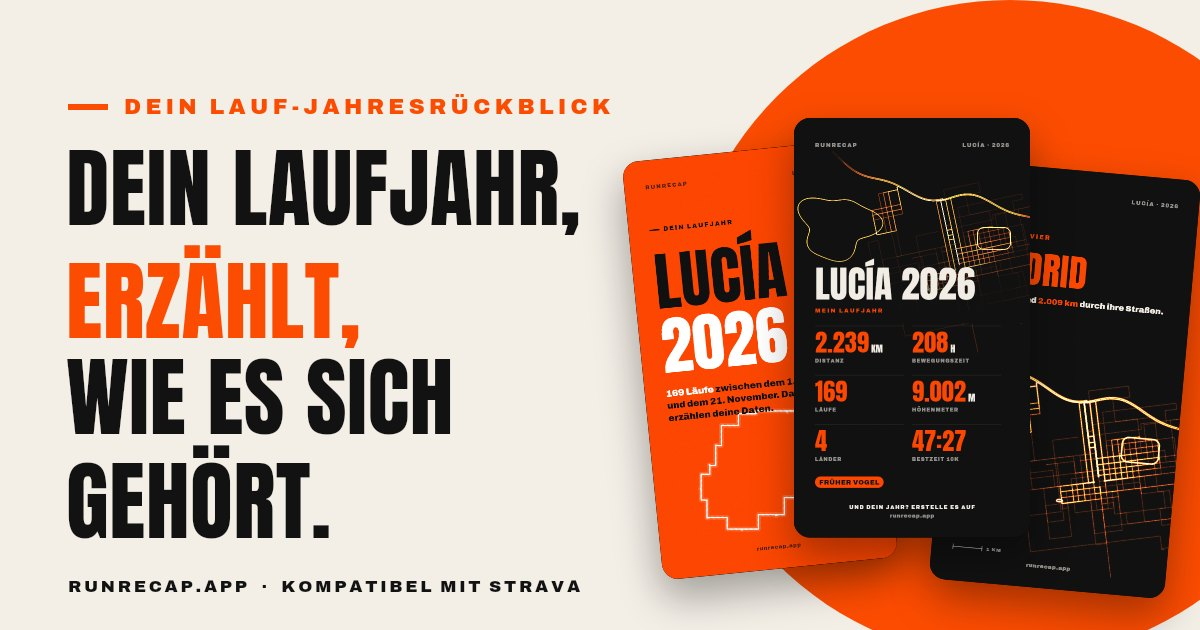
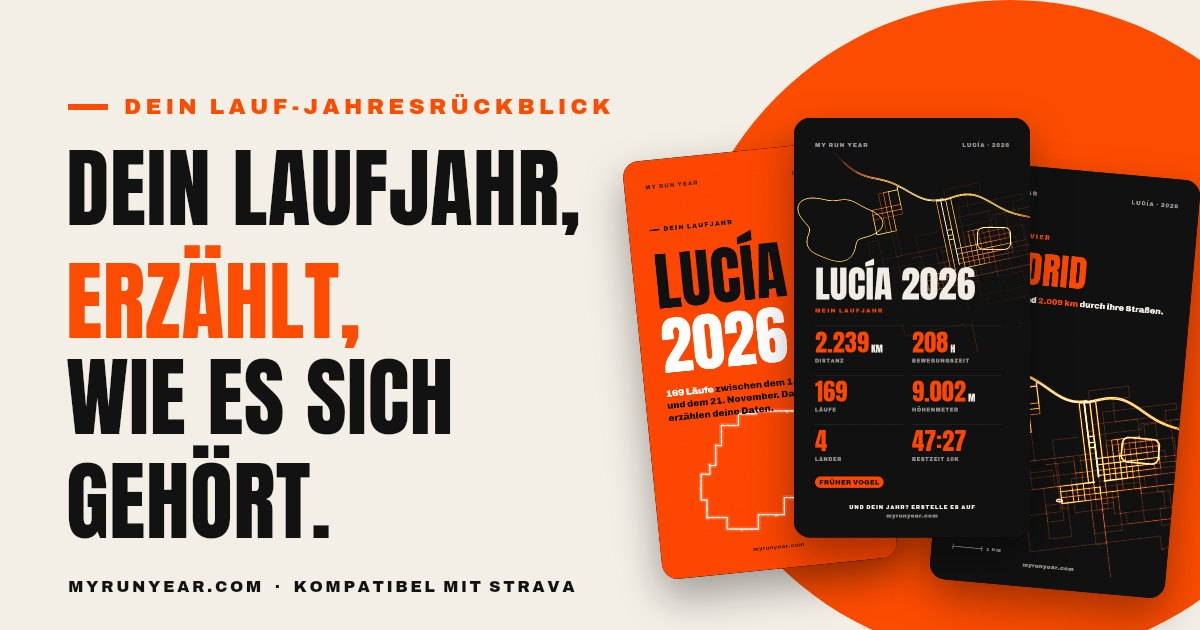
Nueva marca: My Run Year (myrunyear.com)
Nombre, dominio, marca de agua de las tarjetas, textos de los 12 idiomas,
manifest, vistas previas al compartir, nombres de archivo y pruebas.

diff --git a/index.html b/index.html
@@ -4,11 +4,11 @@
     <meta charset="UTF-8" />
     <meta name="viewport" content="width=device-width, initial-scale=1.0, viewport-fit=cover" />
     <!--lang-redirect-->
-    <title>RUNRECAP · Tu año corriendo, en una historia</title>
+    <title>My Run Year · Tu año corriendo, en una historia</title>
     <meta name="description" content="Crea tu resumen anual de running con el archivo de datos de Strava: kilómetros, países, mapa de calor, marcas y más. Listo para Instagram. Gratis y 100 % en tu navegador." />
     <meta name="theme-color" content="#FC4C02" />
     <meta name="color-scheme" content="light" />
-    <meta name="apple-mobile-web-app-title" content="RUNRECAP" />
+    <meta name="apple-mobile-web-app-title" content="My Run Year" />
     <link rel="canonical" href="%SITE_URL%" />
     <link rel="alternate" hreflang="es" href="%SITE_URL%es/" />
     <link rel="alternate" hreflang="ca" href="%SITE_URL%ca/" />
@@ -26,35 +26,35 @@
     <link rel="icon" type="image/svg+xml" href="./favicon.svg" />
     <link rel="apple-touch-icon" href="./apple-touch-icon.png" />
     <link rel="manifest" href="./manifest.webmanifest" />
-    <meta property="og:site_name" content="RUNRECAP" />
+    <meta property="og:site_name" content="My Run Year" />
     <meta property="og:type" content="website" />
     <meta property="og:url" content="%SITE_URL%" />
-    <meta property="og:title" content="RUNRECAP · Tu año corriendo, en una historia" />
+    <meta property="og:title" content="My Run Year · Tu año corriendo, en una historia" />
     <meta property="og:description" content="Crea tu resumen anual de running con el archivo de datos de Strava: kilómetros, países, mapa de calor, marcas y más. Listo para Instagram. Gratis y 100 % en tu navegador." />
     <meta property="og:image" content="%SITE_URL%og-es.jpg" />
     <meta property="og:image:type" content="image/jpeg" />
     <meta property="og:image:width" content="1200" />
     <meta property="og:image:height" content="630" />
-    <meta property="og:image:alt" content="RUNRECAP · Tu año corriendo, en una historia" />
+    <meta property="og:image:alt" content="My Run Year · Tu año corriendo, en una historia" />
     <meta property="og:locale" content="es_ES" />
     <meta name="twitter:card" content="summary_large_image" />
-    <meta name="twitter:title" content="RUNRECAP · Tu año corriendo, en una historia" />
+    <meta name="twitter:title" content="My Run Year · Tu año corriendo, en una historia" />
     <meta name="twitter:description" content="Crea tu resumen anual de running con el archivo de datos de Strava: kilómetros, países, mapa de calor, marcas y más. Listo para Instagram. Gratis y 100 % en tu navegador." />
     <meta name="twitter:image" content="%SITE_URL%og-es.jpg" />
-    <script type="application/ld+json">{"@context":"https://schema.org","@type":"WebApplication","name":"RUNRECAP","url":"%SITE_URL%","applicationCategory":"SportsApplication","operatingSystem":"Web","browserRequirements":"Requires JavaScript","isAccessibleForFree":true,"offers":{"@type":"Offer","price":"0","priceCurrency":"EUR"},"description":"Crea tu resumen anual de running con el archivo de datos de Strava.","inLanguage":"es-ES"}</script>
+    <script type="application/ld+json">{"@context":"https://schema.org","@type":"WebApplication","name":"My Run Year","url":"%SITE_URL%","applicationCategory":"SportsApplication","operatingSystem":"Web","browserRequirements":"Requires JavaScript","isAccessibleForFree":true,"offers":{"@type":"Offer","price":"0","priceCurrency":"EUR"},"description":"Crea tu resumen anual de running con el archivo de datos de Strava.","inLanguage":"es-ES"}</script>
   </head>
   <body>
     <a class="skip" href="#crear" data-i18n="hero.cta">Crear mi resumen</a>
 
     <header class="topbar">
       <div class="wrap topbar__inner">
-        <a class="logo" href="#" aria-label="RUNRECAP">
+        <a class="logo" href="#" aria-label="My Run Year">
           <svg class="logo__mark" viewBox="0 0 32 32" aria-hidden="true">
             <path d="M6 24c4-1 5-7 9-8s6 4 10-1" fill="none" stroke="currentColor" stroke-width="3.2" stroke-linecap="round" />
             <circle cx="6" cy="24" r="3.2" fill="currentColor" />
             <circle cx="25" cy="15" r="3.6" fill="none" stroke="currentColor" stroke-width="2.6" />
           </svg>
-          <span>RUNRECAP</span>
+          <span>MY RUN YEAR</span>
         </a>
         <nav class="topbar__nav">
           <a href="#como" data-i18n="nav.how">Cómo funciona</a>
@@ -203,7 +203,7 @@
             <circle cx="6" cy="24" r="3.2" fill="currentColor" />
             <circle cx="25" cy="15" r="3.6" fill="none" stroke="currentColor" stroke-width="2.6" />
           </svg>
-          <span>RUNRECAP</span>
+          <span>MY RUN YEAR</span>
         </div>
         <p data-i18n="footer.legal"></p>
         <p class="footer__credits" data-i18n="footer.credits"></p>

diff --git a/vite.config.ts b/vite.config.ts
@@ -9,7 +9,7 @@ import { localizeHtml, notFound, robots, sitemap } from './scripts/site-pages.ts
  * URL pública de la web (con barra final): enlaces al compartir, vista previa en WhatsApp/redes,
  * sitemap. En GitHub Actions la fija el workflow (variable SITE_URL del repositorio o la de Pages).
  */
-const SITE_URL = (process.env.VITE_SITE_URL || 'https://runrecap.app/').replace(/\/?$/, '/');
+const SITE_URL = (process.env.VITE_SITE_URL || 'https://myrunyear.com/').replace(/\/?$/, '/');
 
 /**
  * Metadatos con la URL pública y, al compilar, una página estática por idioma (/en/, /ca/…) con
@@ -51,7 +51,7 @@ function sitePages(): Plugin {
 }
 
 /** Redirección de la raíz al idioma de la persona: ?lang=, el elegido antes o el del navegador. */
-const LANG_REDIRECT = `<script>(function(){try{var L=${JSON.stringify(LANGS)};function p(t){if(!t)return null;t=String(t).toLowerCase().split(/[-_]/)[0];if(t==='va'||t==='val')t='ca';if(t==='gl'||t==='eu')t='es';return L.indexOf(t)>=0?t:null}var l=p(new URLSearchParams(location.search).get('lang'));if(!l){try{l=p(localStorage.getItem('runrecap.lang'))}catch(e){}}if(!l){var n=navigator.languages&&navigator.languages.length?navigator.languages:[navigator.language];for(var i=0;i<n.length&&!l;i++)l=p(n[i])}location.replace((l||'en')+'/'+location.search+location.hash)}catch(e){}})();</script>`;
+const LANG_REDIRECT = `<script>(function(){try{var L=${JSON.stringify(LANGS)};function p(t){if(!t)return null;t=String(t).toLowerCase().split(/[-_]/)[0];if(t==='va'||t==='val')t='ca';if(t==='gl'||t==='eu')t='es';return L.indexOf(t)>=0?t:null}var l=p(new URLSearchParams(location.search).get('lang'));if(!l){try{l=p(localStorage.getItem('myrunyear.lang'))}catch(e){}}if(!l){var n=navigator.languages&&navigator.languages.length?navigator.languages:[navigator.language];for(var i=0;i<n.length&&!l;i++)l=p(n[i])}location.replace((l||'en')+'/'+location.search+location.hash)}catch(e){}})();</script>`;
 
 /** Solo en desarrollo: sirve el export de prueba (npm run sample) en /__sample.zip. */
 function sampleExport(): Plugin {

diff --git a/src/ui/flow.ts b/src/ui/flow.ts
@@ -358,7 +358,7 @@ export class Flow {
       cards,
       painter,
       demo: true,
-      onShare: (card, index) => openShareSheet({ painter, card, index, filePrefix: `${slug(BRAND.name)}-demo`, brand: BRAND.name }),
+      onShare: (card, index) => openShareSheet({ painter, card, index, filePrefix: `${BRAND.slug}-demo`, brand: BRAND.text }),
       onClose: () => undefined,
     });
     player.open();
@@ -372,7 +372,7 @@ export class Flow {
       painter: b.painter,
       start,
       demo: b.demo,
-      onShare: (card, index) => openShareSheet({ painter: b.painter, card, index, filePrefix: this.filePrefix(), brand: BRAND.name }),
+      onShare: (card, index) => openShareSheet({ painter: b.painter, card, index, filePrefix: this.filePrefix(), brand: BRAND.text }),
       onClose: () => this.showResults(),
       onFinish: () => player.close(),
     });
@@ -381,7 +381,7 @@ export class Flow {
 
   private filePrefix(): string {
     const s = this.built?.stats;
-    return [slug(BRAND.name), s?.name ? slug(s.name) : '', s?.year].filter(Boolean).join('-');
+    return [BRAND.slug, s?.name ? slug(s.name) : '', s?.year].filter(Boolean).join('-');
   }
 
   // ------------------------------------------------------------ Resultados
@@ -422,7 +422,7 @@ export class Flow {
     b.cards.forEach((card, i) => {
       const canvas = h('canvas');
       const btn = h('button', { type: 'button', class: 'results__card', 'aria-label': `${tr('story.share')} ${i + 1}` }, canvas);
-      btn.addEventListener('click', () => openShareSheet({ painter: b.painter, card, index: i, filePrefix: this.filePrefix(), brand: BRAND.name }));
+      btn.addEventListener('click', () => openShareSheet({ painter: b.painter, card, index: i, filePrefix: this.filePrefix(), brand: BRAND.text }));
       grid.append(btn);
       requestAnimationFrame(() => paintThumb(b.painter, card, canvas, Math.max(170, btn.clientWidth || 190)));
     });

diff --git a/src/i18n/site/ru.ts b/src/i18n/site/ru.ts
@@ -1,7 +1,7 @@
 import type { SiteMessages } from './es';
 
 const ru: SiteMessages = {
-  'meta.title': 'RUNRECAP · Твой беговой год в одной истории',
+  'meta.title': 'My Run Year · Твой беговой год в одной истории',
   'nav.how': 'Как это работает',
   'nav.faq': 'Вопросы',
   'hero.kicker': 'Итоги твоего бегового года',
@@ -97,7 +97,7 @@ const ru: SiteMessages = {
   'lang.label': 'Язык',
   'hero.compat': 'Совместимо со Strava · Независимый проект',
   'faq.q8': 'Это официальное приложение Strava?',
-  'faq.a8': 'Нет. RUNRECAP — независимый проект: он совместим со Strava, потому что читает архив данных, который Strava позволяет скачать, но никогда не использует твой пароль и не подключается к твоему аккаунту.',
+  'faq.a8': 'Нет. My Run Year — независимый проект: он совместим со Strava, потому что читает архив данных, который Strava позволяет скачать, но никогда не использует твой пароль и не подключается к твоему аккаунту.',
   'faq.q9': 'Вы используете cookie или аналитику?',
   'faq.a9': 'Нет. Никаких отслеживающих cookie и аналитики, и твои данные никогда не покидают устройство. В браузере мы запоминаем только выбранный тобой язык.',
   'share.textFull': 'Мой беговой год 🏃 Создай свой на {url}',

diff --git a/src/i18n/site/ja.ts b/src/i18n/site/ja.ts
@@ -1,7 +1,7 @@
 import type { SiteMessages } from './es';
 
 const ja: SiteMessages = {
-  'meta.title': 'RUNRECAP · あなたのランニングイヤーをストーリーに',
+  'meta.title': 'My Run Year · あなたのランニングイヤーをストーリーに',
   'nav.how': '使い方',
   'nav.faq': 'よくある質問',
   'hero.kicker': 'あなたの年間ランニングまとめ',
@@ -97,7 +97,7 @@ const ja: SiteMessages = {
   'lang.label': '言語',
   'hero.compat': 'Strava 対応 · 独立プロジェクト',
   'faq.q8': 'Strava の公式アプリですか？',
-  'faq.a8': 'いいえ。RUNRECAP は独立したプロジェクトです。Strava からダウンロードできるデータアーカイブを読み込むので Strava に対応していますが、パスワードを使ったり、アカウントに接続したりすることはありません。',
+  'faq.a8': 'いいえ。My Run Year は独立したプロジェクトです。Strava からダウンロードできるデータアーカイブを読み込むので Strava に対応していますが、パスワードを使ったり、アカウントに接続したりすることはありません。',
   'faq.q9': 'Cookie やアクセス解析を使っていますか？',
   'faq.a9': 'いいえ。トラッキング Cookie もアクセス解析もなく、データが端末の外に出ることもありません。ブラウザに保存するのは、選んだ言語だけです。',
   'share.textFull': '私のランニングイヤー 🏃 あなたも {url} で作ってみよう',

diff --git a/src/i18n/site/ko.ts b/src/i18n/site/ko.ts
@@ -2,7 +2,7 @@ import type { SiteMessages } from './es';
 
 // Strava no está en coreano: los pasos citan los menús en inglés, que es lo que verá el usuario.
 const ko: SiteMessages = {
-  'meta.title': 'RUNRECAP · 나의 러닝 한 해를 하나의 스토리로',
+  'meta.title': 'My Run Year · 나의 러닝 한 해를 하나의 스토리로',
   'nav.how': '이용 방법',
   'nav.faq': '자주 묻는 질문',
   'hero.kicker': '나의 연간 러닝 리캡',
@@ -98,7 +98,7 @@ const ko: SiteMessages = {
   'lang.label': '언어',
   'hero.compat': 'Strava 호환 · 독립 프로젝트',
   'faq.q8': 'Strava 공식 앱인가요?',
-  'faq.a8': '아니요. RUNRECAP은 독립 프로젝트예요. Strava에서 다운로드할 수 있는 데이터 아카이브를 읽기 때문에 Strava와 호환되지만, 비밀번호를 사용하거나 계정에 연결하지 않아요.',
+  'faq.a8': '아니요. My Run Year는 독립 프로젝트예요. Strava에서 다운로드할 수 있는 데이터 아카이브를 읽기 때문에 Strava와 호환되지만, 비밀번호를 사용하거나 계정에 연결하지 않아요.',
   'faq.q9': '쿠키나 분석 도구를 쓰나요?',
   'faq.a9': '아니요. 추적 쿠키도 분석 도구도 없고, 데이터는 절대 기기 밖으로 나가지 않아요. 브라우저에는 선택한 언어만 기억해요.',
   'share.textFull': '나의 러닝 한 해 🏃 {url}에서 나만의 리캡을 만들어 보세요',

diff --git a/src/i18n/site/fr.ts b/src/i18n/site/fr.ts
@@ -1,7 +1,7 @@
 import type { SiteMessages } from './es';
 
 const fr: SiteMessages = {
-  'meta.title': 'RUNRECAP · Ton année de course, en une story',
+  'meta.title': 'My Run Year · Ton année de course, en une story',
   'nav.how': 'Comment ça marche',
   'nav.faq': 'Questions',
   'hero.kicker': 'Ton bilan running de l’année',
@@ -97,7 +97,7 @@ const fr: SiteMessages = {
   'lang.label': 'Langue',
   'hero.compat': 'Compatible avec Strava · Projet indépendant',
   'faq.q8': 'Est-ce une app officielle de Strava ?',
-  'faq.a8': 'Non. RUNRECAP est un projet indépendant : il est compatible avec Strava parce qu’il lit l’archive de données que Strava te laisse télécharger, mais il n’utilise jamais ton mot de passe et ne se connecte pas à ton compte.',
+  'faq.a8': 'Non. My Run Year est un projet indépendant : il est compatible avec Strava parce qu’il lit l’archive de données que Strava te laisse télécharger, mais il n’utilise jamais ton mot de passe et ne se connecte pas à ton compte.',
   'faq.q9': 'Utilisez-vous des cookies ou des statistiques ?',
   'faq.a9': 'Non. Aucun cookie de suivi ni outil de statistiques, et tes données ne quittent jamais ton appareil. Nous retenons seulement, dans ton navigateur, la langue que tu choisis.',
   'share.textFull': 'Mon année de course 🏃 Crée la tienne sur {url}',

diff --git a/src/i18n/site/nl.ts b/src/i18n/site/nl.ts
@@ -1,7 +1,7 @@
 import type { SiteMessages } from './es';
 
 const nl: SiteMessages = {
-  'meta.title': 'RUNRECAP · Jouw hardloopjaar, als verhaal',
+  'meta.title': 'My Run Year · Jouw hardloopjaar, als verhaal',
   'nav.how': 'Hoe het werkt',
   'nav.faq': 'Vragen',
   'hero.kicker': 'Jouw hardloopjaar in een terugblik',
@@ -97,7 +97,7 @@ const nl: SiteMessages = {
   'lang.label': 'Taal',
   'hero.compat': 'Compatibel met Strava · Onafhankelijk project',
   'faq.q8': 'Is dit een officiële Strava-app?',
-  'faq.a8': 'Nee. RUNRECAP is een onafhankelijk project: het is compatibel met Strava omdat het het gegevensarchief leest dat je bij Strava kunt downloaden, maar het gebruikt nooit je wachtwoord en maakt geen verbinding met je account.',
+  'faq.a8': 'Nee. My Run Year is een onafhankelijk project: het is compatibel met Strava omdat het het gegevensarchief leest dat je bij Strava kunt downloaden, maar het gebruikt nooit je wachtwoord en maakt geen verbinding met je account.',
   'faq.q9': 'Gebruiken jullie cookies of analytics?',
   'faq.a9': 'Nee. Geen trackingcookies of analytics, en je gegevens verlaten nooit je apparaat. We onthouden alleen, in je browser, de taal die je kiest.',
   'share.textFull': 'Mijn hardloopjaar 🏃 Maak het jouwe op {url}',

diff --git a/src/config.ts b/src/config.ts
@@ -1,14 +1,18 @@
-// Configuración de marca y despliegue. Cambia aquí el nombre y el dominio de la web.
+// Configuración de marca y despliegue. Cambia aquí el nombre, el dominio y los datos del titular.
 import type { Lang } from './i18n/langs';
 
 /** URL pública de la web con barra final. La fija el build (VITE_SITE_URL, ver vite.config.ts). */
-const SITE_URL = ((import.meta.env?.VITE_SITE_URL as string | undefined) || 'https://runrecap.app/').replace(/\/?$/, '/');
+const SITE_URL = ((import.meta.env?.VITE_SITE_URL as string | undefined) || 'https://myrunyear.com/').replace(/\/?$/, '/');
 
 export const BRAND = {
-  /** Nombre que aparece en la web y en las tarjetas. */
-  name: 'RUNRECAP',
+  /** Logotipo: así sale en la cabecera de la web y en las tarjetas. */
+  name: 'MY RUN YEAR',
+  /** El nombre dentro de una frase, en títulos de página y al compartir. */
+  text: 'My Run Year',
+  /** Para nombres de archivo y claves guardadas en el navegador. */
+  slug: 'myrunyear',
   /** Dominio que se imprime como marca de agua en las imágenes y vídeos compartidos. */
-  domain: 'runrecap.app',
+  domain: 'myrunyear.com',
   /** Dirección pública de la web (enlaces al compartir y vista previa en WhatsApp y redes). */
   siteUrl: SITE_URL,
   /**

diff --git a/src/i18n/site/it.ts b/src/i18n/site/it.ts
@@ -1,7 +1,7 @@
 import type { SiteMessages } from './es';
 
 const it: SiteMessages = {
-  'meta.title': 'RUNRECAP · Il tuo anno di corsa, in una storia',
+  'meta.title': 'My Run Year · Il tuo anno di corsa, in una storia',
   'nav.how': 'Come funziona',
   'nav.faq': 'Domande',
   'hero.kicker': 'Il tuo riepilogo running dell’anno',
@@ -97,7 +97,7 @@ const it: SiteMessages = {
   'lang.label': 'Lingua',
   'hero.compat': 'Compatibile con Strava · Progetto indipendente',
   'faq.q8': 'È un’app ufficiale di Strava?',
-  'faq.a8': 'No. RUNRECAP è un progetto indipendente: è compatibile con Strava perché legge l’archivio di dati che Strava ti permette di scaricare, ma non usa mai la tua password e non si collega al tuo account.',
+  'faq.a8': 'No. My Run Year è un progetto indipendente: è compatibile con Strava perché legge l’archivio di dati che Strava ti permette di scaricare, ma non usa mai la tua password e non si collega al tuo account.',
   'faq.q9': 'Usate cookie o statistiche?',
   'faq.a9': 'No. Niente cookie di tracciamento né statistiche, e i tuoi dati non lasciano mai il tuo dispositivo. Ricordiamo solo, nel tuo browser, la lingua che scegli.',
   'share.textFull': 'Il mio anno di corsa 🏃 Crea il tuo su {url}',

diff --git a/src/i18n/site/de.ts b/src/i18n/site/de.ts
@@ -1,7 +1,7 @@
 import type { SiteMessages } from './es';
 
 const de: SiteMessages = {
-  'meta.title': 'RUNRECAP · Dein Laufjahr als Story',
+  'meta.title': 'My Run Year · Dein Laufjahr als Story',
   'nav.how': 'So funktioniert’s',
   'nav.faq': 'Fragen',
   'hero.kicker': 'Dein Lauf-Jahresrückblick',
@@ -97,7 +97,7 @@ const de: SiteMessages = {
   'lang.label': 'Sprache',
   'hero.compat': 'Kompatibel mit Strava · Unabhängiges Projekt',
   'faq.q8': 'Ist das eine offizielle Strava-App?',
-  'faq.a8': 'Nein. RUNRECAP ist ein unabhängiges Projekt: kompatibel mit Strava, weil es das Datenarchiv liest, das Strava dich herunterladen lässt – aber es nutzt nie dein Passwort und verbindet sich nicht mit deinem Konto.',
+  'faq.a8': 'Nein. My Run Year ist ein unabhängiges Projekt: kompatibel mit Strava, weil es das Datenarchiv liest, das Strava dich herunterladen lässt – aber es nutzt nie dein Passwort und verbindet sich nicht mit deinem Konto.',
   'faq.q9': 'Nutzt ihr Cookies oder Analytics?',
   'faq.a9': 'Nein. Keine Tracking-Cookies, keine Analytics, und deine Daten verlassen nie dein Gerät. Wir merken uns nur in deinem Browser die Sprache, die du wählst.',
   'share.textFull': 'Mein Laufjahr 🏃 Erstell deins auf {url}',

diff --git a/src/i18n/site/ca.ts b/src/i18n/site/ca.ts
@@ -1,7 +1,7 @@
 import type { SiteMessages } from './es';
 
 const ca: SiteMessages = {
-  'meta.title': 'RUNRECAP · El teu any corrent, en una història',
+  'meta.title': 'My Run Year · El teu any corrent, en una història',
   'nav.how': 'Com funciona',
   'nav.faq': 'Preguntes',
   'hero.kicker': 'El teu resum runner de l’any',
@@ -97,7 +97,7 @@ const ca: SiteMessages = {
   'lang.label': 'Idioma',
   'hero.compat': 'Compatible amb Strava · Projecte independent',
   'faq.q8': 'És una app oficial de Strava?',
-  'faq.a8': 'No. RUNRECAP és un projecte independent: és compatible amb Strava perquè llegeix l’arxiu de dades que Strava et deixa descarregar, però no fa servir la teva contrasenya ni es connecta al teu compte.',
+  'faq.a8': 'No. My Run Year és un projecte independent: és compatible amb Strava perquè llegeix l’arxiu de dades que Strava et deixa descarregar, però no fa servir la teva contrasenya ni es connecta al teu compte.',
   'faq.q9': 'Feu servir galetes o analítica?',
   'faq.a9': 'No. No hi ha galetes de seguiment ni analítica, i les teves dades no surten mai del teu dispositiu. Només recordem al teu navegador l’idioma que tries.',
   'share.textFull': 'El meu any corrent 🏃 Fes-te el teu a {url}',
